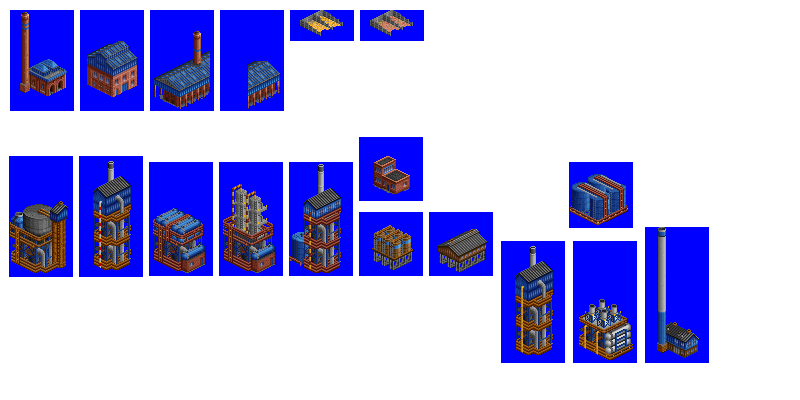
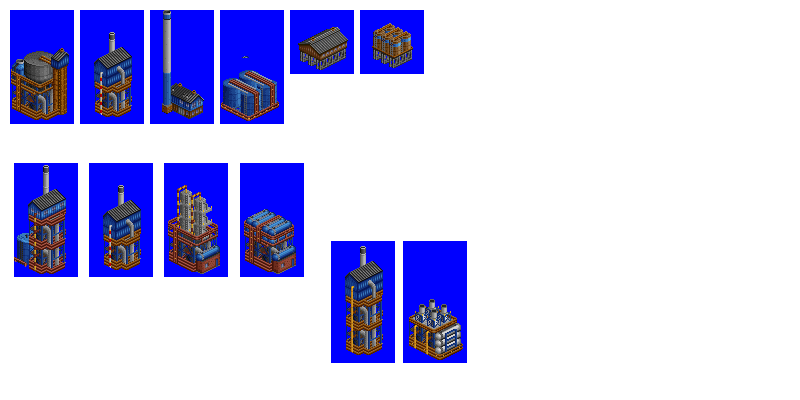
Change: WIP on Carbon Black Plant sprites

diff --git a/src/industries/carbon_black_plant.py b/src/industries/carbon_black_plant.py
@@ -32,22 +32,22 @@ spriteset_ground_overlay = industry.add_spriteset(
 )
 
 spriteset_1 = industry.add_spriteset(
-    sprites=[(10, 10, 64, 101, -31, -64)],
+    sprites=[(10, 10, 64, 114, -31, -83)],
 )
 spriteset_2 = industry.add_spriteset(
-    sprites=[(80, 10, 64, 101, -31, -59)],
+    sprites=[(80, 10, 64, 114, -31, -83)],
 )
 spriteset_3 = industry.add_spriteset(
-    sprites=[(150, 10, 64, 101, -31, -71)],
+    sprites=[(150, 10, 64, 114, -31, -83)],
 )
 spriteset_4 = industry.add_spriteset(
-    sprites=[(220, 10, 64, 101, -31, -69)],
+    sprites=[(220, 10, 64, 114, -31, -83)],
 )
 spriteset_sand_staithe = industry.add_spriteset(
-    sprites=[(290, 10, 64, 31, -31, 0)],
+    sprites=[(290, 10, 64, 64, -31, -33)],
 )
 spriteset_clay_staithe = industry.add_spriteset(
-    sprites=[(360, 10, 64, 31, -31, 0)],
+    sprites=[(360, 10, 64, 64, -31, -33)],
 )
 sprite_smoke_boilerhouse = industry.add_smoke_sprite(
     smoke_type='white_smoke_big',
@@ -133,13 +133,13 @@ industry.add_industry_layout(
 )
 industry.add_industry_layout(
     id='carbon_black_plant_industry_layout_3',
-    layout=[(0, 0, 'carbon_black_plant_tile_1', 'carbon_black_plant_spritelayout_4'),
-            (0, 1, 'carbon_black_plant_tile_1', 'carbon_black_plant_spritelayout_4'),
-            (0, 2, 'carbon_black_plant_tile_1', 'carbon_black_plant_spritelayout_1'),
+    layout=[(0, 0, 'carbon_black_plant_tile_1', 'carbon_black_plant_spritelayout_1'),
+            (0, 1, 'carbon_black_plant_tile_1', 'carbon_black_plant_spritelayout_1'),
+            (0, 2, 'carbon_black_plant_tile_1', 'carbon_black_plant_spritelayout_2'),
             (0, 3, 'carbon_black_plant_tile_1', 'carbon_black_plant_spritelayout_clay_staithe'),
-            (1, 0, 'carbon_black_plant_tile_1', 'carbon_black_plant_spritelayout_3'),
+            (1, 0, 'carbon_black_plant_tile_1', 'carbon_black_plant_spritelayout_2'),
             (1, 1, 'carbon_black_plant_tile_1', 'carbon_black_plant_spritelayout_3'),
-            (1, 2, 'carbon_black_plant_tile_1', 'carbon_black_plant_spritelayout_2'),
+            (1, 2, 'carbon_black_plant_tile_1', 'carbon_black_plant_spritelayout_4'),
             (1, 3, 'carbon_black_plant_tile_1', 'carbon_black_plant_spritelayout_sand_staithe'),
             ]
 )
